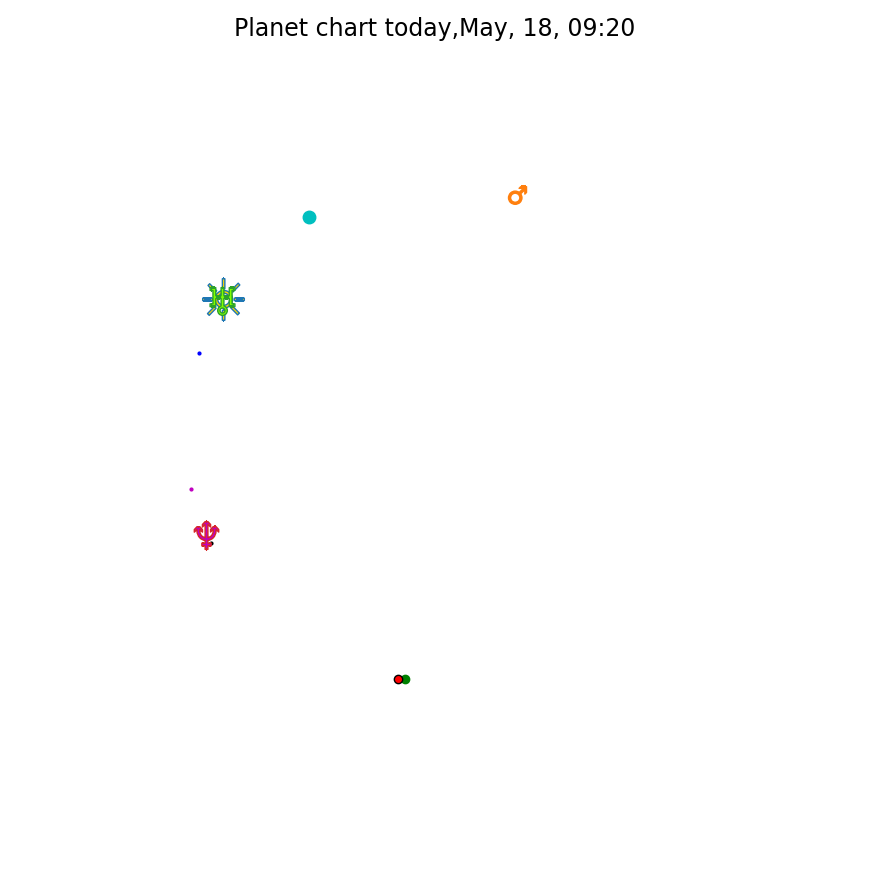
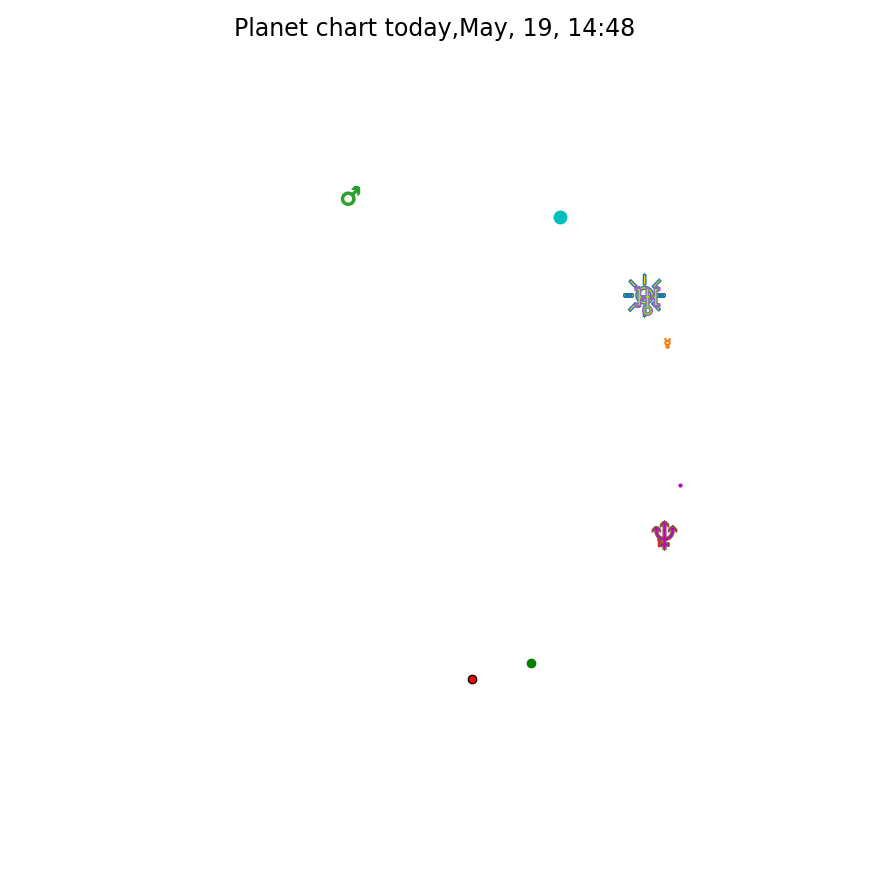
changed zodiac layout and turned off theta offset

diff --git a/astroplan/templates/planets.html b/astroplan/templates/planets.html
@@ -15,7 +15,7 @@
 
         <div id="img-layers"> 
             <img src="{% static 'plots/chart.png' %}" alt="plot" id="chart-plot">
-            <img src="{% static 'images/12.jpg' %}" alt = "chart axes" id="chart-axes">
+            <img src="{% static 'images/12.png' %}" alt = "chart axes" id="chart-axes">
         </div>
 
         

diff --git a/astroplan/views.py b/astroplan/views.py
@@ -59,9 +59,9 @@ def show_chart(request):
     width = 0.9
     height = 0.9
     ax1 = fig.add_axes([left, bottom, width, height], projection='polar') #center plot
-    ax1.set_theta_offset(np.pi) 
+    # ax1.set_theta_offset()
     ax1.set_rlim(-180,100)
-    ax1.set_theta_direction(-1)
+    ax1.set_theta_direction('counterclockwise')
     ax1.set_rticks([])
     ax1.set_axis_off() #'theta ax' is off 
   
@@ -77,10 +77,10 @@ def show_chart(request):
     # ax1.plot( venus[0][0], venus[0][1], zorder=2, color='silver', linestyle=':')
     ax1.plot(np.deg2rad(sun[0][0]), sun[0][1], marker='$☼$', label='sun', ms=30, mfc='gold')
     # ax1.annotate('☉', xy=(np.deg2rad(sun[0][0]), sun[0][1]))
-    ax1.plot(np.deg2rad(mercury[0][0]), mercury[0][1], 'o:b', label='merc', ms=2)
+    ax1.plot(np.deg2rad(mercury[0][0]), mercury[0][1], marker='$☿$', label='merc', ms=7)
     ax1.plot(np.deg2rad(mars[0][0]), mars[0][1], marker='$♂$', label='mars', ms=13)
     ax1.plot(np.deg2rad(jupiter[0][0]), jupiter[0][1], 'o:c', label='jupiter', ms=9)
-    ax1.plot(np.deg2rad(saturn[0][0]), saturn[0][1], 'o:k', label='saturn', ms=2)
+    ax1.plot(np.deg2rad(saturn[0][0]), saturn[0][1], marker='$♄$', label='saturn', ms=6, mfc='dimgray')
     ax1.plot(np.deg2rad(uranus[0][0]), uranus[0][1], marker='$♅$',mfc='chartreuse', label='uranus', ms=20)
     ax1.plot(np.deg2rad(neptune[0][0]), neptune[0][1], marker='$♆$', mfc='m', label='neptune', ms=20)
     ax1.plot(np.deg2rad(pluto[0][0]), pluto[0][1], 'o:k', mfc='red', label='pluto')
